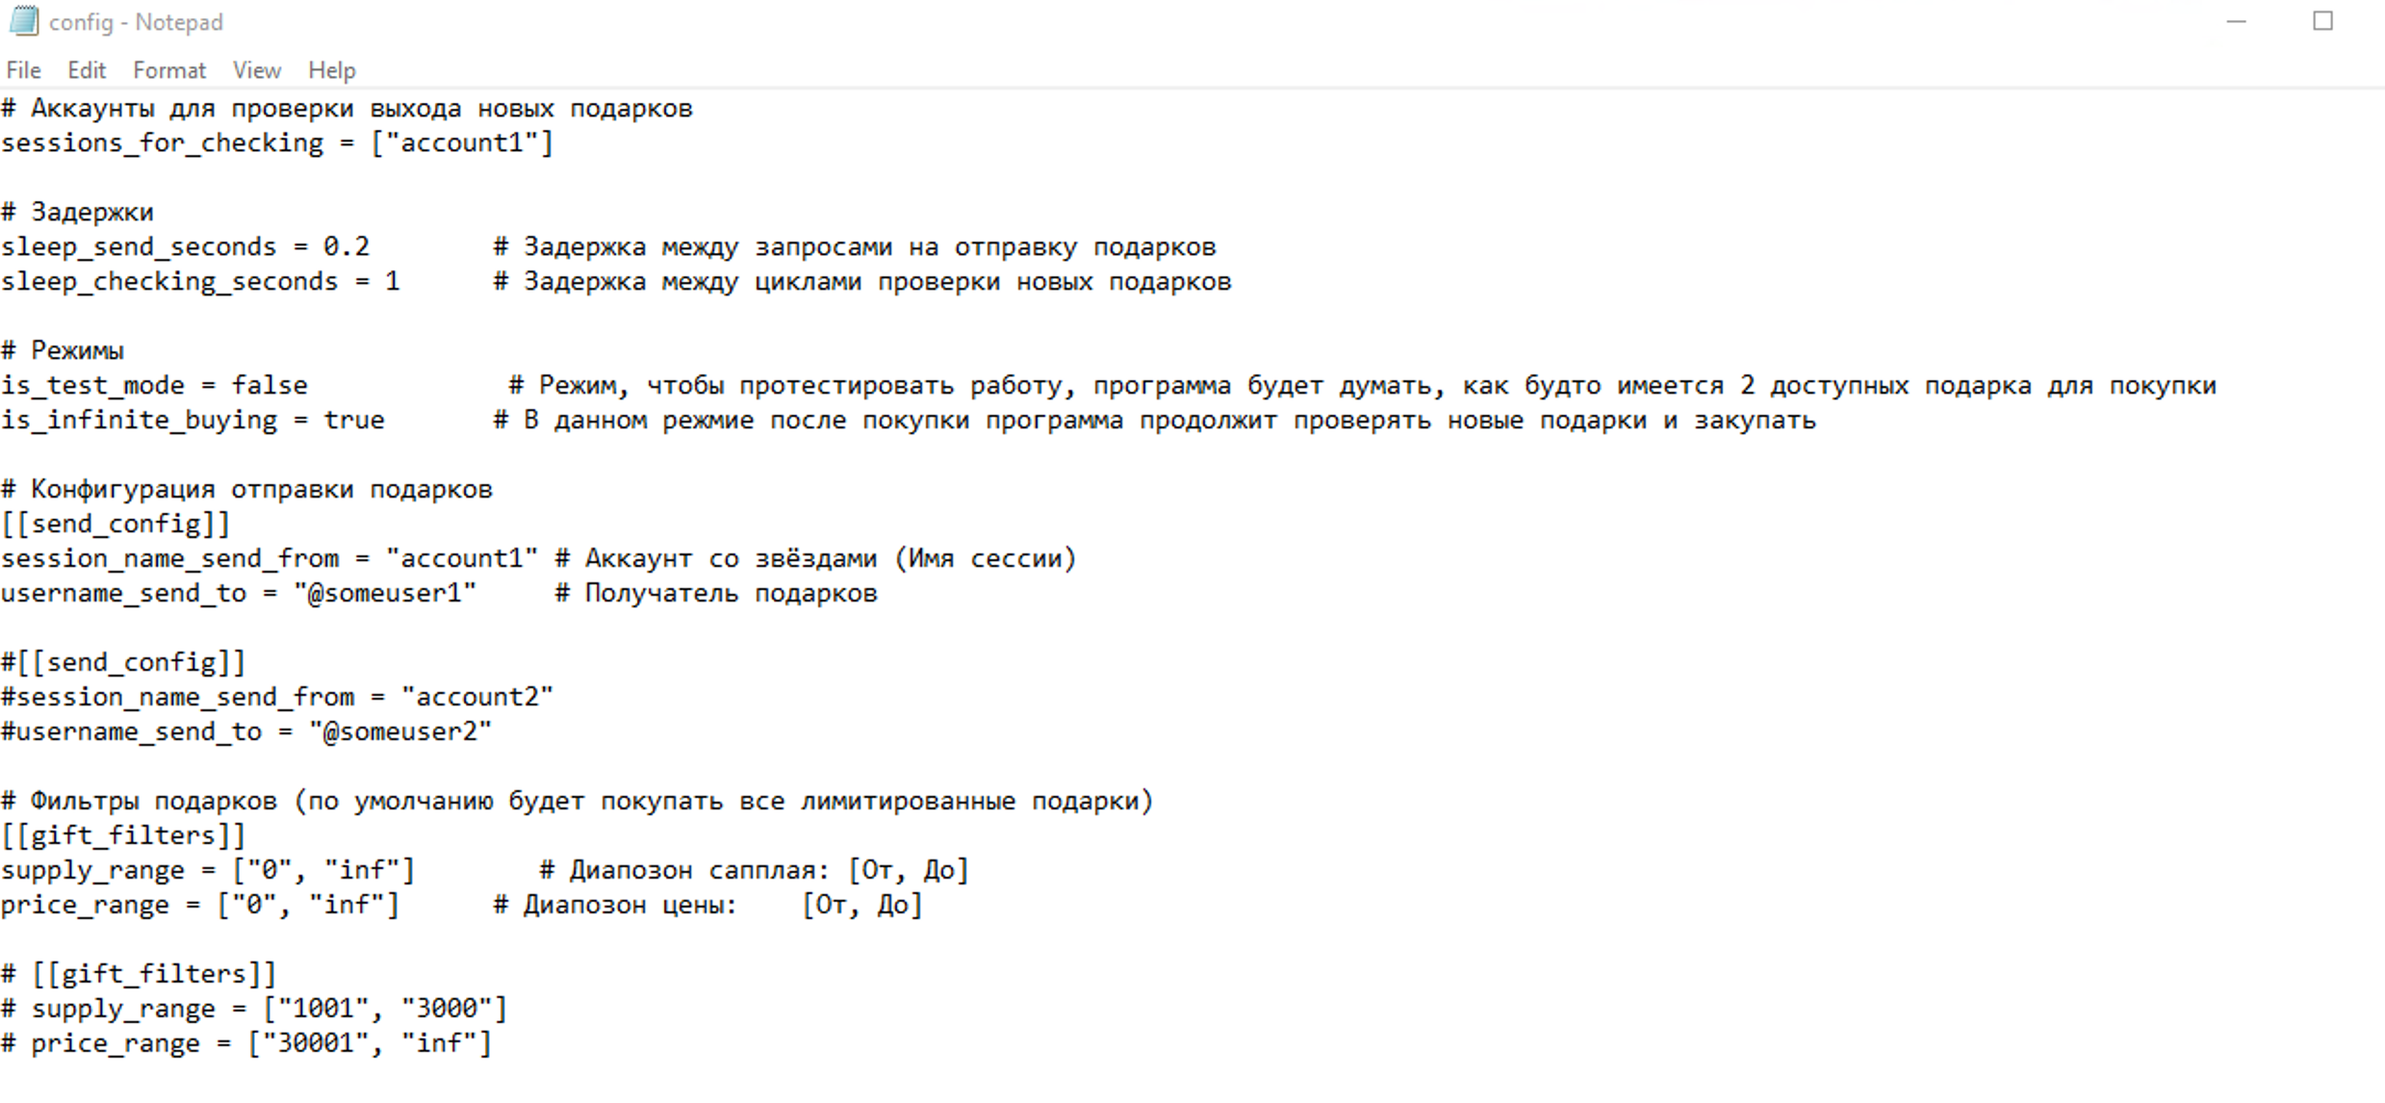
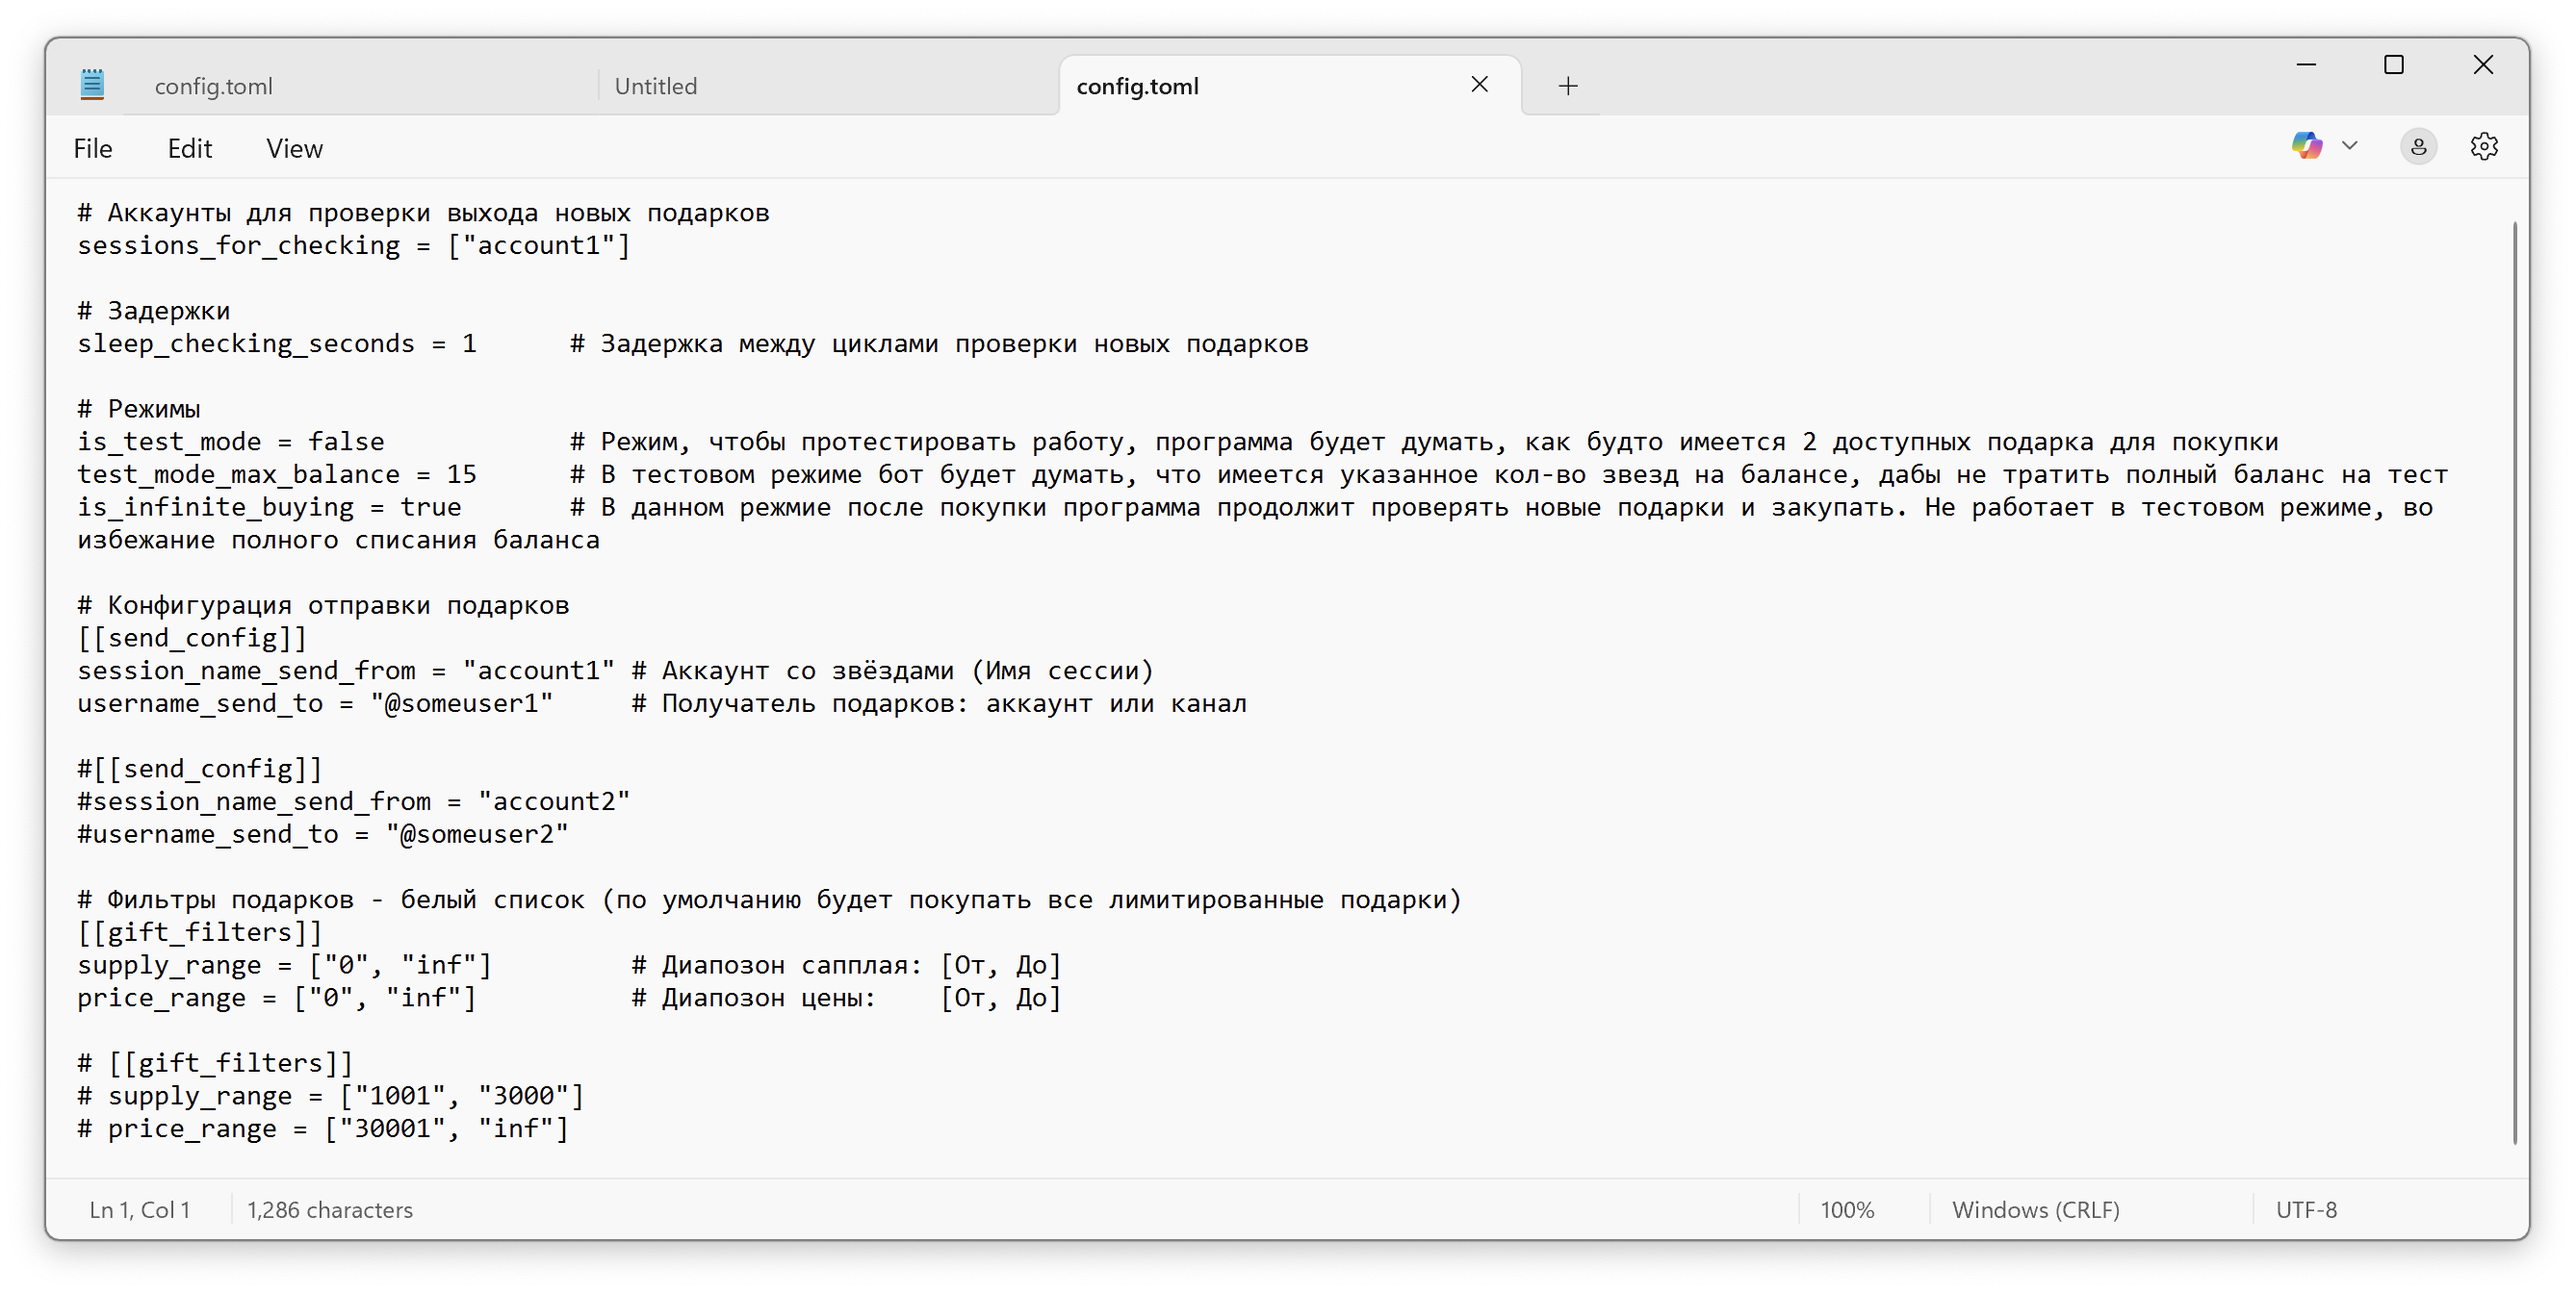
config fix, README.md update

diff --git a/main.py b/main.py
@@ -6,7 +6,7 @@ import pyrogram
 from pyrogram import Client
 from pyrogram.errors import StargiftUsageLimited, FormSubmitDuplicate, FloodWait
 
-from config import sleep_send_seconds, sleep_checking_seconds, sessions_for_checking, send_config, is_test_mode, gift_filters, is_infinite_buying
+from config import sleep_checking_seconds, sessions_for_checking, send_config, is_test_mode, gift_filters, is_infinite_buying
 from helper import get_logger
 from model import SendFromTo, Sessions, Session, SessionType, GiftsCache
 from task_manager import TaskManager

diff --git a/config.py b/config.py
@@ -8,7 +8,6 @@ config = toml.load("config.toml")
 # Распаковываем переменные напрямую
 sessions_for_checking = config["sessions_for_checking"]
 send_config = [SendFromTo(**item) for item in config["send_config"]]
-sleep_send_seconds = config["sleep_send_seconds"]
 sleep_checking_seconds = config["sleep_checking_seconds"]
 is_test_mode = config["is_test_mode"]
 test_mode_max_balance = config["test_mode_max_balance"]

diff --git a/README.md b/README.md
@@ -85,7 +85,7 @@ pip install -r requirements.txt
 sessions_for_checking = ["account1","account2",...]
 ```
 
-- Снова укажите имя сессии (аккаунта который будет покупать) в session_name_send_from, а также username пользователя, которому будет отправлен подарок в username_send_to. То есть: от какого аккаунта (session_name_send_from) → какому пользователю (username_send_to) мы отправляем подарок. Таких блоков настроек может быть несколько.
+- Снова укажите имя сессии (аккаунта который будет покупать) в `session_name_send_from`, а также username пользователя, которому будет отправлен подарок в `username_send_to`. То есть: от какого аккаунта (session_name_send_from) → какому пользователю (username_send_to) мы отправляем подарок. Таких блоков настроек может быть несколько.
 ```toml
 # Конфигурация отправки подарков
 [[send_config]]
@@ -126,10 +126,9 @@ python.exe ./main.py
 1. Убедитесь, что на ваших аккаунтах есть достаточное количество Telegram Stars.
 2. Для работы скрипта необходимо стабильное интернет-соединение
 3. Рекомендуется запускать скрипт на **Windows** для возможности активного контроля действий
-4. Telegram может ввести лимиты на запросы - настройте разумные задержки
-5. Внимательно настраивайте условия покупки - слишком строгие фильтры могут пропустить желанные подарки
-6. Мониторьте логи работы скрипта и при необходимости корректируйте условия
-7. Цены и суплай подарков могут меняться - регулярно обновляйте свои фильтры
+4. Внимательно настраивайте условия покупки - слишком строгие фильтры могут пропустить желанные подарки
+5. Мониторьте логи работы скрипта и при необходимости корректируйте условия
+6. Цены и суплай подарков могут меняться - регулярно обновляйте свои фильтры
 
 ## 📜 Лицензия
 
